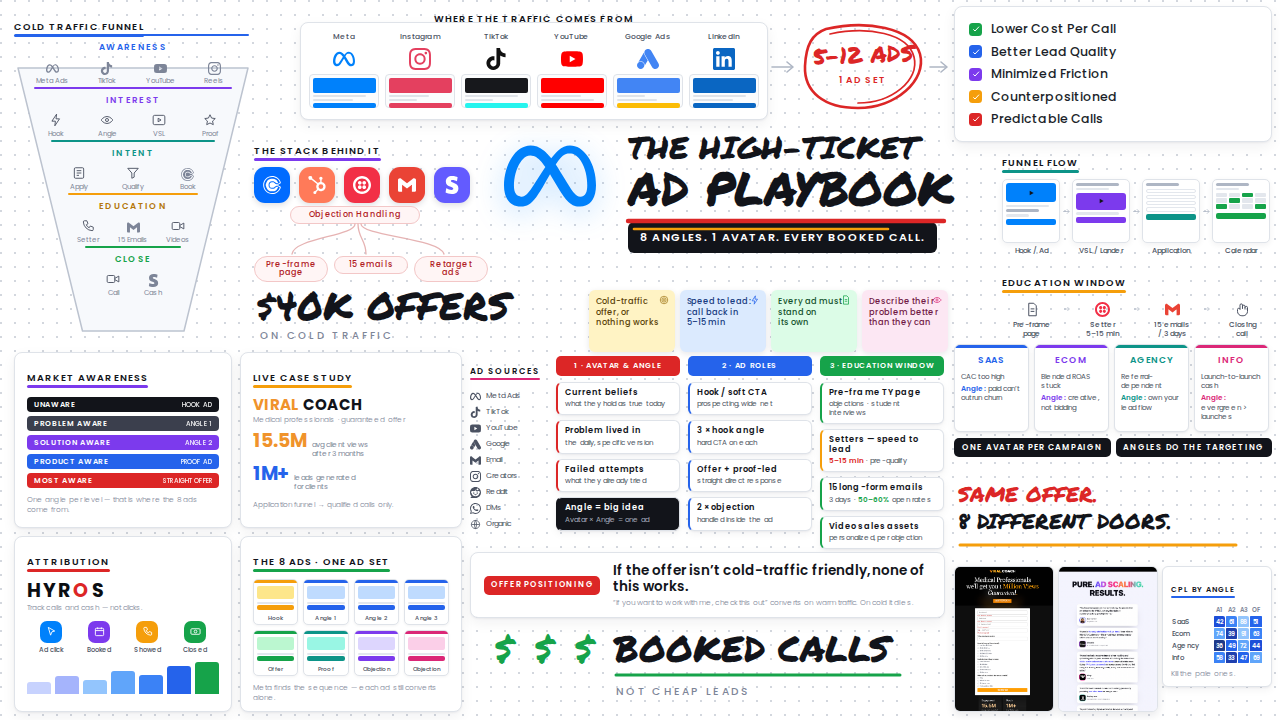
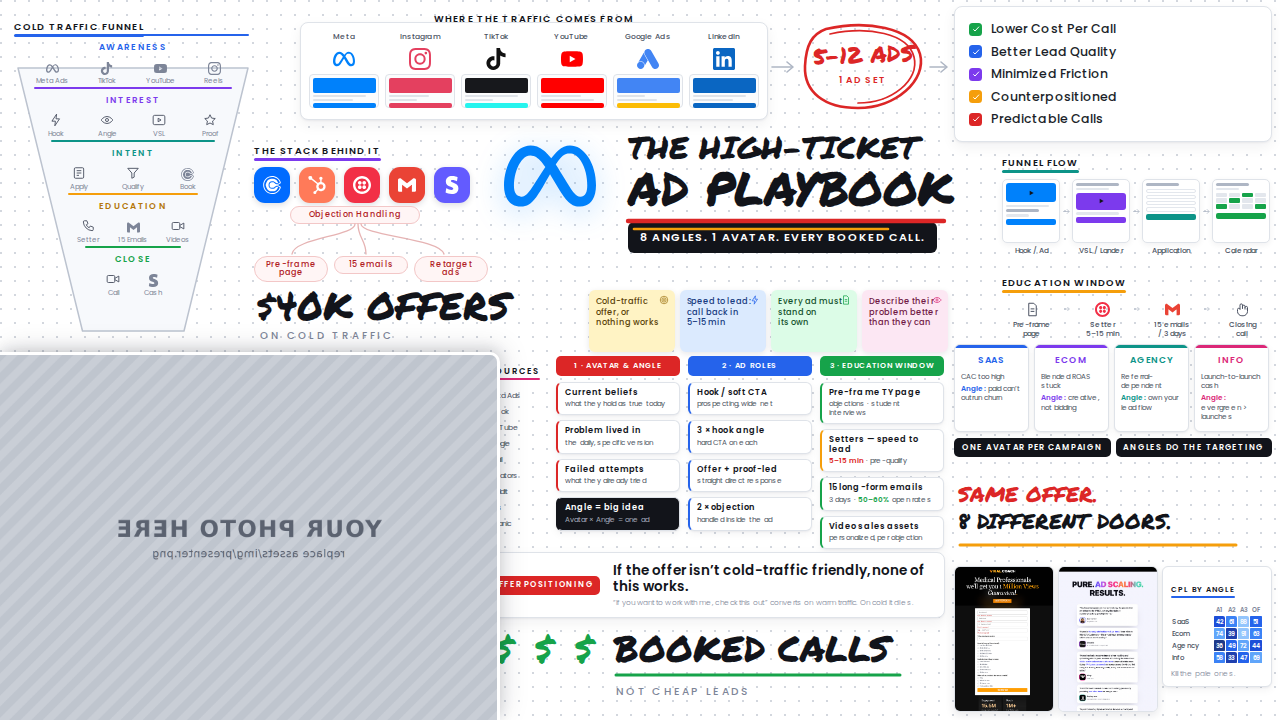
Add presenter frame to thumbnail, bottom-left
Rectangular frame flush to the bottom-left corner, sized like the reference
thumbnail. Currently shows a placeholder; dropping the real photo in at
assets/img/presenter.png is the only change needed.

Framing is driven by CSS custom properties on #presenter:
--pflip (-1 un-mirrors a selfie-mode shot), --px/--py (object-position),
--pzoom (push in on the face).

Claude-Session: https://claude.ai/code/session_01GDiUpLQwiL13ZvT66QBghD

Changed region(s): [[0.0, 0.4583, 0.4062, 1.0]]

diff --git a/design/thumbnails/multi-avatar-funnel/index.html b/design/thumbnails/multi-avatar-funnel/index.html
@@ -251,6 +251,25 @@ svg.pen{position:absolute;overflow:visible;pointer-events:none}
   padding:2px 1px 3px;line-height:1.1;color:var(--body)}
 
 .mark{font-family:Marker,cursive;line-height:1;user-select:none}
+
+/* ═══════ presenter frame (bottom-left, sits above the board) ═══════
+   Swap assets/img/presenter.png for the real photo — nothing else needs to change.
+   --pflip: -1 un-mirrors a selfie-mode shot, 1 leaves it as-is.
+   --px/--py: which part of the photo is kept (object-position).
+   --pzoom: >1 pushes in on the face.                                        */
+#presenter{
+  left:0;bottom:0;width:500px;height:368px;z-index:59;overflow:hidden;
+  border-top:3px solid #fff;border-right:3px solid #fff;border-top-right-radius:10px;
+  box-shadow:0 -2px 14px rgba(16,24,40,.16),6px -6px 26px rgba(16,24,40,.10);
+  background:#e8eaee;
+}
+#presenter img{
+  width:100%;height:100%;object-fit:cover;display:block;
+  object-position:var(--px,50%) var(--py,42%);
+  transform:scaleX(var(--pflip,-1)) scale(var(--pzoom,1));
+  transform-origin:center;
+}
+
 </style>
 
 <!--SPRITE:START-->
@@ -657,5 +676,10 @@ svg.pen{position:absolute;overflow:visible;pointer-events:none}
     <path style="stroke:var(--green);stroke-width:3" d="M2 3 H286"/>
   </svg>
   <div class="abs" style="left:616px;top:684px;font-weight:500;font-size:10.5px;letter-spacing:.22em;color:var(--mute);text-transform:uppercase">not cheap leads</div>
+
+  <!-- ═══════ presenter ═══════ -->
+  <div class="abs" id="presenter" style="--pflip:-1;--px:50%;--py:40%;--pzoom:1">
+    <img src="assets/img/presenter.png" alt="">
+  </div>
 
 </div>
